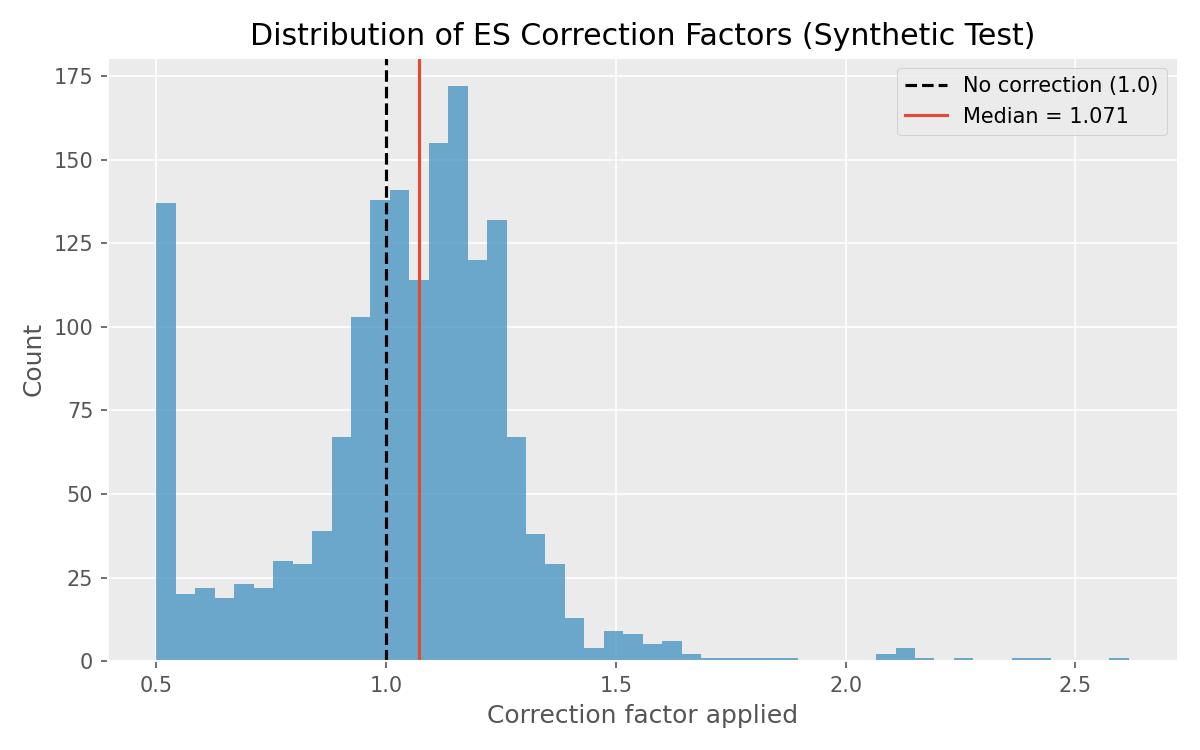
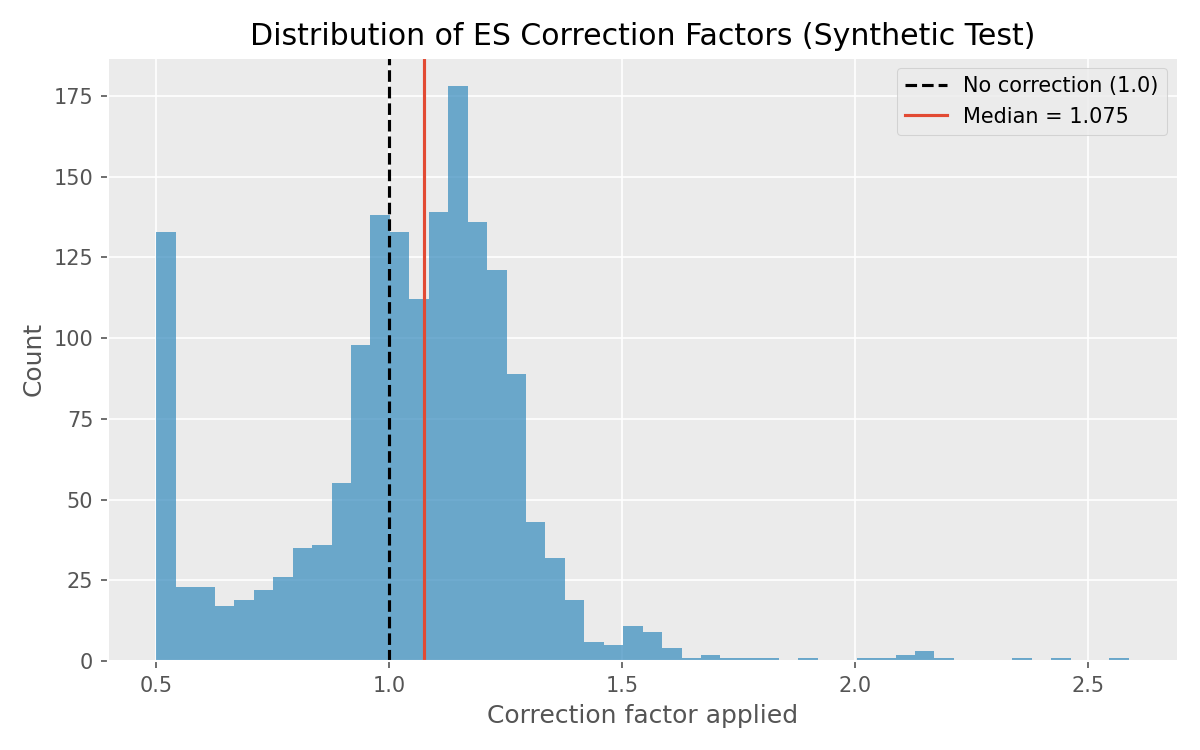
Add analytical ES and persistent MC cache for true_es                                                 Replace pure Monte Carlo true_es with closed-form / quadrature formulas for Pareto, Student-t, Lognormal, Burr XII, Frechet, Dagum, Inverse                                                           

diff --git a/src/evaluate.py b/src/evaluate.py
@@ -1,5 +1,6 @@
 import logging
 import os
+import pickle
 
 import numpy as np
 import matplotlib
@@ -7,7 +8,7 @@ matplotlib.use('Agg')
 import matplotlib.pyplot as plt
 from scipy import stats
 
-from scipy.stats import genpareto
+from scipy.stats import genpareto, norm
 
 from src.synthetic import (
     _generate_student_t, _generate_pareto,
@@ -17,12 +18,42 @@ from src.synthetic import (
 
 logger = logging.getLogger(__name__)
 
+_MC_CACHE_PATH = "outputs/data/mc_es_cache.pkl"
 _mc_quantile_cache = {}
 _mc_es_cache = {}
+_cache_loaded = False
 
 
 def _params_key(dist_type, dist_params, p):
     return (dist_type, tuple(sorted(dist_params.items())), p)
+
+
+def _load_cache():
+    """Load persistent MC caches from disk on first use."""
+    global _mc_quantile_cache, _mc_es_cache, _cache_loaded
+    if _cache_loaded:
+        return
+    _cache_loaded = True
+    if os.path.exists(_MC_CACHE_PATH):
+        try:
+            with open(_MC_CACHE_PATH, "rb") as f:
+                data = pickle.load(f)
+            _mc_quantile_cache.update(data.get("quantile", {}))
+            _mc_es_cache.update(data.get("es", {}))
+            logger.info("Loaded MC cache from %s (%d quantile, %d es entries)",
+                        _MC_CACHE_PATH, len(_mc_quantile_cache), len(_mc_es_cache))
+        except Exception as e:
+            logger.warning("Failed to load MC cache: %s", e)
+
+
+def _save_cache():
+    """Persist the MC caches to disk."""
+    os.makedirs(os.path.dirname(_MC_CACHE_PATH), exist_ok=True)
+    try:
+        with open(_MC_CACHE_PATH, "wb") as f:
+            pickle.dump({"quantile": _mc_quantile_cache, "es": _mc_es_cache}, f)
+    except Exception as e:
+        logger.warning("Failed to save MC cache: %s", e)
 
 
 def _mc_quantile(dist_type, dist_params, p, n_mc=10_000_000, seed=99999):
@@ -149,10 +180,12 @@ def true_quantile(dist_type, dist_params, p):
         return stats.weibull_min.ppf(p, c=dist_params['c'])
     elif dist_type in ('lognormal_pareto_mix', 'two_pareto',
                         'log_gamma', 'gamma_pareto_splice'):
+        _load_cache()
         key = _params_key(dist_type, dist_params, p)
         if key not in _mc_quantile_cache:
             logger.info("Computing MC quantile for %s (p=%s) ...", dist_type, p)
             _mc_quantile_cache[key] = _mc_quantile(dist_type, dist_params, p)
+            _save_cache()
         return _mc_quantile_cache[key]
     raise ValueError(f"Unknown dist_type: {dist_type}")
 
@@ -183,16 +216,86 @@ def _mc_es(dist_type, dist_params, p, n_mc=10_000_000, seed=99999):
     return float(tail.mean()) if len(tail) > 0 else float(q)
 
 
-def true_es(dist_type, dist_params, p):
-    """True Expected Shortfall via Monte Carlo: E[X | X > VaR(p)].
+def _analytical_es(dist_type, dist_params, p):
+    """Closed-form or numerically-integrated ES for tractable distributions.
 
-    Uses 10M samples, cached by (dist_type, params, p).
-    Matches the MC approach in run_diff_pipeline.py for consistency.
+    Returns None for distributions without a practical analytical form
+    (composites like mixtures/splices, Log-Gamma). For Student-t the
+    distribution of |T| is used (matches the abs-return convention in
+    the synthetic generator).
     """
+    if dist_type == 'pareto':
+        alpha = dist_params['alpha']
+        if alpha <= 1:
+            return None  # ES undefined (infinite mean)
+        var = stats.pareto.ppf(p, b=alpha)
+        return var * alpha / (alpha - 1)
+
+    if dist_type == 'student_t':
+        df = dist_params['df']
+        if df <= 1:
+            return None
+        # Synthetic samples are |T|, so VaR at prob p of |T| equals the
+        # t-quantile at (1+p)/2. By symmetry, E[|T| | |T|>v] = E[T | T>v].
+        upper_p = (p + 1.0) / 2.0
+        v = stats.t.ppf(upper_p, df=df)
+        fv = stats.t.pdf(v, df=df)
+        # E[T | T>v] = (df + v^2)/(df-1) * f(v) / (1 - F(v)),
+        # and 1 - F(v) = (1-p)/2 on the upper tail.
+        return (df + v * v) / (df - 1.0) * fv / ((1.0 - p) / 2.0)
+
+    if dist_type == 'lognormal':
+        sigma = dist_params['sigma']
+        phi_inv_p = norm.ppf(p)
+        return np.exp(sigma * sigma / 2.0) * norm.cdf(sigma - phi_inv_p) / (1.0 - p)
+
+    # Remaining distributions: use scipy quadrature via .expect(..., conditional=True).
+    dist = None
+    if dist_type == 'burr12':
+        dist = stats.burr12(c=dist_params['c'], d=dist_params['d'])
+    elif dist_type == 'frechet':
+        dist = stats.invweibull(c=dist_params['c'])
+    elif dist_type == 'dagum':
+        dist = stats.burr(c=dist_params['c'], d=dist_params['d'])
+    elif dist_type == 'inverse_gamma':
+        dist = stats.invgamma(a=dist_params['a'])
+    elif dist_type == 'weibull_stretched':
+        dist = stats.weibull_min(c=dist_params['c'])
+
+    if dist is None:
+        return None
+
+    var = dist.ppf(p)
+    try:
+        es = dist.expect(lambda x: x, lb=var, ub=np.inf, conditional=True)
+        if not np.isfinite(es):
+            return None
+        return float(es)
+    except Exception as e:
+        logger.debug("Analytical ES quadrature failed for %s: %s", dist_type, e)
+        return None
+
+
+def true_es(dist_type, dist_params, p):
+    """True Expected Shortfall: E[X | X > VaR(p)].
+
+    Uses a closed-form / numerically integrated value where available,
+    falling back to Monte Carlo (10M samples) for composite distributions.
+    Both paths are cached by (dist_type, params, p), with persistence to
+    ``outputs/data/mc_es_cache.pkl`` so results are reused across runs.
+    """
+    dist_type, dist_params = _resolve_garch_type(dist_type, dist_params)
+    _load_cache()
     key = _params_key(dist_type, dist_params, p)
-    if key not in _mc_es_cache:
+    if key in _mc_es_cache:
+        return _mc_es_cache[key]
+
+    val = _analytical_es(dist_type, dist_params, p)
+    if val is None:
         logger.info("Computing MC ES for %s (p=%s) ...", dist_type, p)
-        _mc_es_cache[key] = _mc_es(dist_type, dist_params, p)
+        val = _mc_es(dist_type, dist_params, p)
+    _mc_es_cache[key] = float(val)
+    _save_cache()
     return _mc_es_cache[key]
 
 
